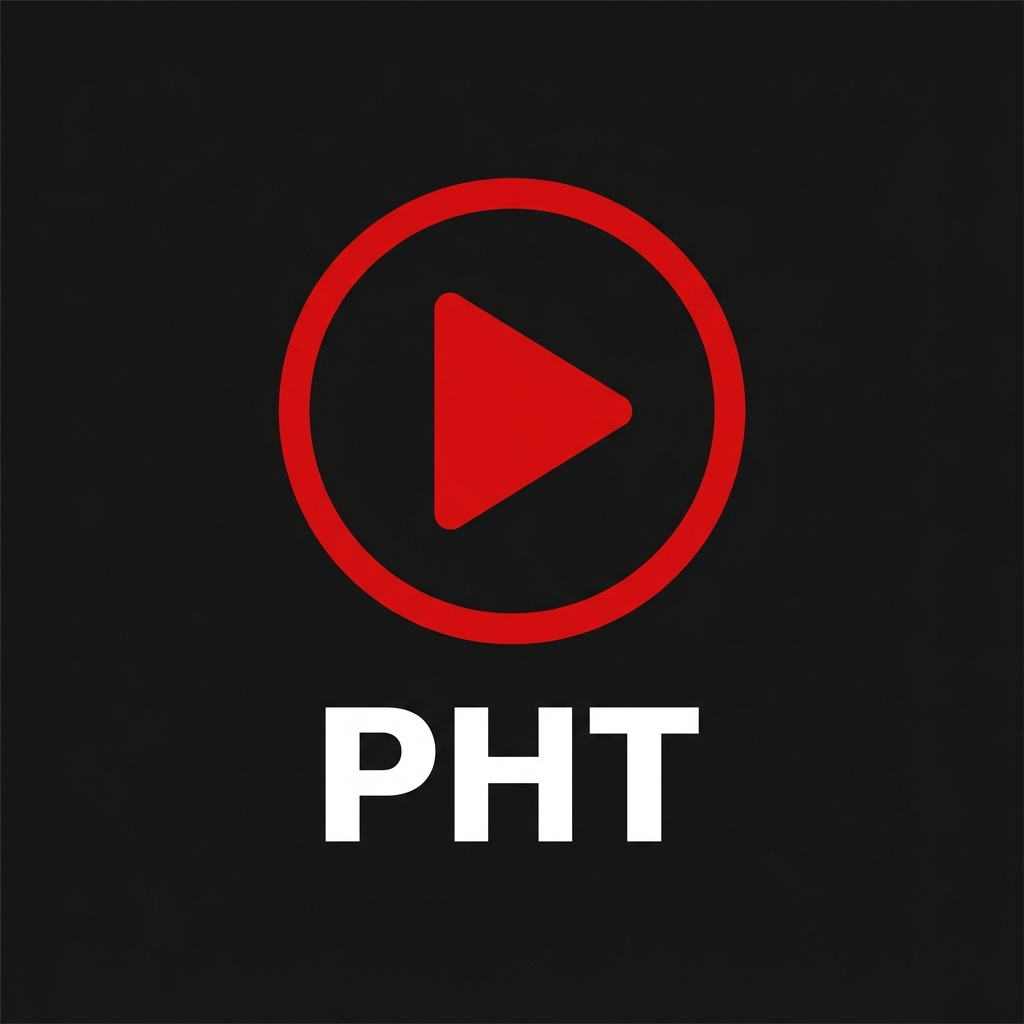
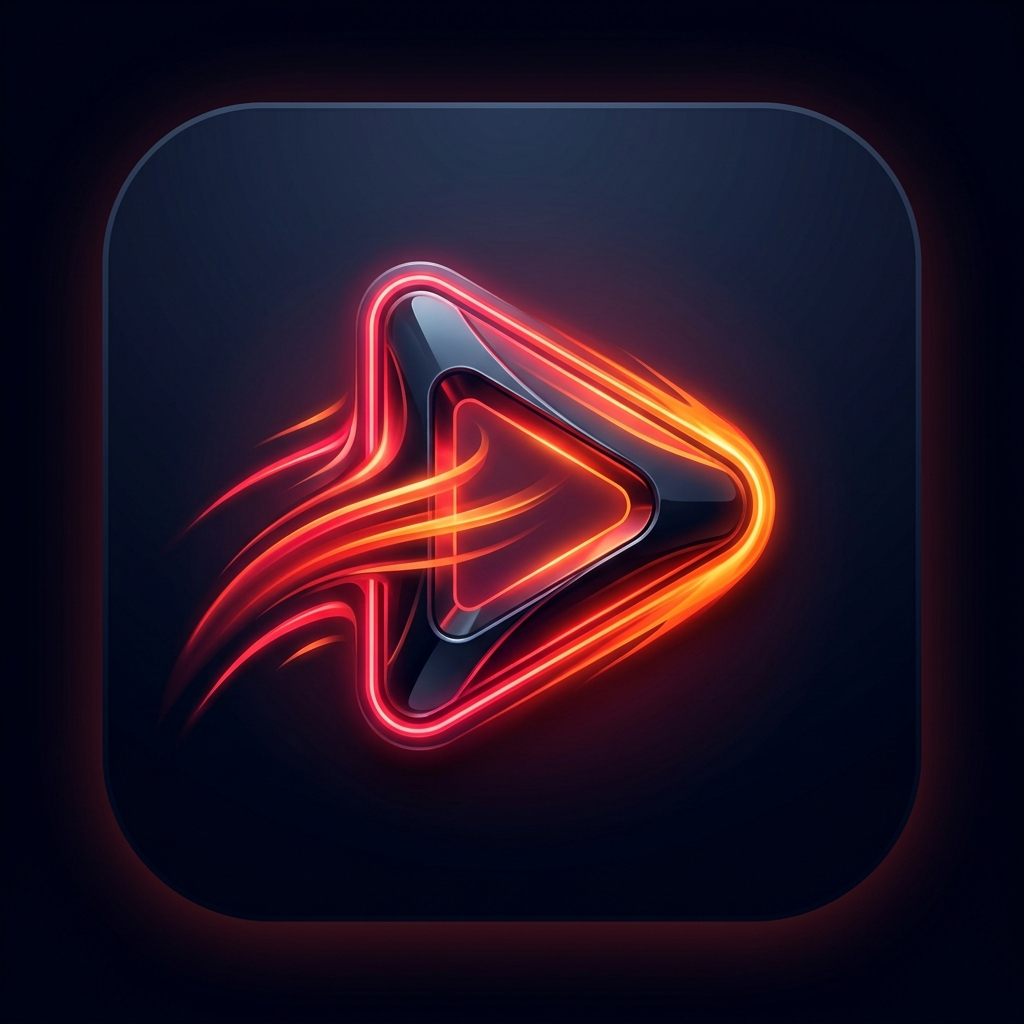
button pause

diff --git a/src/components/WatchPlayerClient.tsx b/src/components/WatchPlayerClient.tsx
@@ -513,15 +513,21 @@ export const WatchPlayerClient: React.FC<WatchPlayerClientProps> = ({ movie, cur
                 </div>
               </div>
 
-              {/* Large Play Icon in the Center (appears when paused) */}
-              {!isPlaying && (
-                <button
-                  onClick={togglePlay}
-                  className="absolute top-1/2 left-1/2 -translate-x-1/2 -translate-y-1/2 w-16 h-16 rounded-full bg-gradient-brand flex items-center justify-center border border-white/20 text-white shadow-lg cursor-pointer transform hover:scale-105 transition-transform shadow-brand-violet/50"
-                >
-                  <Play className="w-8 h-8 text-white fill-white ml-1.5" />
-                </button>
-              )}
+              {/* Large Play/Pause Icon in the Center */}
+              <button
+                onClick={(e) => {
+                  e.stopPropagation();
+                  togglePlay();
+                }}
+                className="absolute top-1/2 left-1/2 -translate-x-1/2 -translate-y-1/2 w-16 h-16 rounded-full bg-gradient-brand flex items-center justify-center border border-white/20 text-white shadow-lg cursor-pointer transform hover:scale-105 transition-transform shadow-brand-violet/50 active:scale-95 duration-200"
+                title={isPlaying ? "Tạm dừng" : "Phát video"}
+              >
+                {isPlaying ? (
+                  <Pause className="w-7 h-7 text-white fill-white" />
+                ) : (
+                  <Play className="w-7 h-7 text-white fill-white ml-1" />
+                )}
+              </button>
 
               {/* Bottom controls panel (Ẩn mượt mà khi chưa bấm phát) */}
               <div className={`space-y-3 w-full controls-prevent-click transition-all duration-300 ${